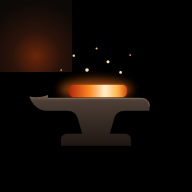
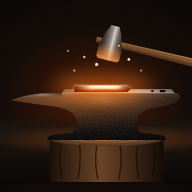
Capa redesenhada: fornalha, bigorna sombreada no cepo, tenaz, martelo de ferreiro e faíscas em rasto
Golpes com clarão, onda de choque e faíscas que ressaltam na bigorna. Ícone novo a condizer.

Claude-Session: https://claude.ai/code/session_01XjpTbbTGugCUFgewp3p1NZ

diff --git a/app.js b/app.js
@@ -150,11 +150,17 @@ const Faiscas = (() => {
   const c = $('#faiscas'), x = c.getContext('2d'), reduz = matchMedia('(prefers-reduced-motion: reduce)').matches;
   let W = 0, H = 0, ps = [], ult = 0, corre = false, acum = 0;
   function tam(){ const d = Math.min(2, devicePixelRatio || 1); W = innerWidth; H = innerHeight; c.width = W * d; c.height = H * d; x.setTransform(d, 0, 0, d, 0, 0); }
-  const nova = (px, py, vx, vy, vida, t, g) => ps.push({x: px, y: py, vx, vy, v: 0, vida, t, g});
-  function explosao(px, py, n = 26){
+  const nova = (px, py, vx, vy, vida, t, g, extra) => ps.push(Object.assign({x: px, y: py, vx, vy, v: 0, vida, t, g}, extra));
+  // riscos: faíscas de forja (traços rápidos que ressaltam na superfície "chao" = {y, x1, x2})
+  function explosao(px, py, n = 26, riscos = false, chao = null){
     for (let i = 0; i < n; i++){
-      const a = -Math.PI / 2 + (Math.random() - .5) * Math.PI * 1.5, s = 110 + Math.random() * 280;
-      nova(px, py, Math.cos(a) * s, Math.sin(a) * s, .45 + Math.random() * .7, 1 + Math.random() * 1.7, 560);
+      if (riscos){
+        const a = -Math.PI / 2 + (Math.random() - .5) * Math.PI * (Math.random() < .7 ? 1.75 : 1.1), s = 160 + Math.random() * 460;
+        nova(px + (Math.random() - .5) * 12, py, Math.cos(a) * s, Math.sin(a) * s, .55 + Math.random() * 1.05, 1 + Math.random() * 1.6, 820, {r: 1, chao});
+      } else {
+        const a = -Math.PI / 2 + (Math.random() - .5) * Math.PI * 1.5, s = 110 + Math.random() * 280;
+        nova(px, py, Math.cos(a) * s, Math.sin(a) * s, .45 + Math.random() * .7, 1 + Math.random() * 1.7, 560);
+      }
     }
     iniciar();
   }
@@ -167,6 +173,14 @@ const Faiscas = (() => {
       const p = ps[i]; p.v += dt; const f = p.v / p.vida;
       if (f >= 1 || p.y < -20){ ps.splice(i, 1); continue; }
       p.vy += p.g * dt; p.vx += Math.sin(p.v * 3 + i) * 8 * dt; p.x += p.vx * dt; p.y += p.vy * dt;
+      if (p.r){
+        p.vx *= 1 - 1.2 * dt;
+        const k = p.chao; if (k && p.vy > 0 && p.y > k.y && p.x > k.x1 && p.x < k.x2 && p.y - p.vy * dt <= k.y + 2){ p.y = k.y; p.vy *= -.32; p.vx *= .75; }
+        x.strokeStyle = `hsla(${50 - 38 * f},100%,${92 - 40 * f}%,${1 - f * f})`; x.lineWidth = p.t * (1.25 - f * .6); x.lineCap = 'round';
+        x.beginPath(); x.moveTo(p.x - p.vx * .04, p.y - p.vy * .04); x.lineTo(p.x, p.y); x.stroke();
+        x.fillStyle = `hsla(30,100%,60%,${.18 * (1 - f)})`; x.beginPath(); x.arc(p.x, p.y, p.t * 3.2, 0, 7); x.fill();
+        continue;
+      }
       x.fillStyle = `hsla(${30 * (1 - f)},100%,${60 - 25 * f}%,${.13 * (1 - f)})`;
       x.beginPath(); x.arc(p.x, p.y, p.t * 4.2, 0, 7); x.fill();
       x.fillStyle = `hsla(${48 - 40 * f},100%,${90 - 45 * f}%,${1 - f * f})`;
@@ -819,10 +833,124 @@ function renderIntro(){
 }
 
 /* ---------- Capa: três marteladas para entrar ---------- */
-// O ferro da semana: cada treino molda o lingote até virar lâmina (meta = treinos por semana).
-const LINGOTE = [[138, 180], [142, 170], [212, 170], [216, 170], [220, 170], [222, 172], [222, 176], [222, 184], [222, 188], [220, 190], [216, 190], [212, 190], [142, 190]];
-const LAMINA = [[92, 183], [130, 176], [226, 176], [226, 166], [233, 166], [233, 179], [266, 179], [266, 187], [233, 187], [233, 200], [226, 200], [226, 190], [130, 190]];
-const formaPeca = f => 'M' + LINGOTE.map((p, i) => (p[0] + (LAMINA[i][0] - p[0]) * f).toFixed(1) + ' ' + (p[1] + (LAMINA[i][1] - p[1]) * f).toFixed(1)).join(' L') + ' Z';
+// O ferro da semana: cada treino molda a barra até virar lâmina (meta = treinos por semana).
+// Pontos correspondentes da barra (f = 0) e da lâmina (f = 1); a forma intermédia é interpolada.
+const BARRA = [[160, 184], [164, 184], [166, 184], [168, 184], [170, 184], [246, 184], [252, 189], [246, 194], [170, 194], [168, 194], [166, 194], [164, 194], [160, 194]];
+const LAMINA = [[112, 186], [140, 186], [140, 177], [147, 177], [147, 184], [285, 184], [312, 189], [285, 194], [147, 194], [147, 201], [140, 201], [140, 192], [112, 192]];
+const lerp = (a, b, f) => a + (b - a) * f;
+const formaPeca = f => 'M' + BARRA.map((p, i) => lerp(p[0], LAMINA[i][0], f).toFixed(1) + ' ' + lerp(p[1], LAMINA[i][1], f).toFixed(1)).join(' L') + ' Z';
+const BIGORNA = 'M58 208Q90 199 126 202L140 202L140 196L322 196Q330 196 330 202L330 206Q326 214 300 218Q268 222 262 236Q256 252 268 260L300 264Q308 266 308 272L116 272Q116 266 124 264L156 260Q168 252 162 236Q156 222 128 218Q96 214 58 208Z';
+const PIVO = '380px 155px', IMPACTO = [215, 184];
+function cenaForja(f){
+  const jx = lerp(160, 112, f), cx = lerp(206, 212, f), meia = lerp(40, 92, f);
+  const chamas = [[86, 46, 1], [104, 58, .9], [122, 50, 1.1], [140, 40, .8], [96, 34, .7]].map(([x, h, e], i) =>
+    `<path class="cChama" style="transform-origin:${x}px 196px" d="M${x - 11 * e} 196Q${x - 13 * e} ${196 - h * .55} ${x} ${196 - h}Q${x + 13 * e} ${196 - h * .55} ${x + 11 * e} 196Z" fill="url(#gChama)" opacity="${.75 - i * .06}"/>`).join('');
+  const brasas = [[62, 195, 7], [78, 198, 9], [96, 194, 8], [114, 198, 10], [132, 195, 8], [150, 198, 7], [88, 200, 6], [124, 201, 7]].map(([x, y, r]) =>
+    `<circle class="cCarvao" cx="${x}" cy="${y + 3}" r="${r * .7}" fill="url(#gCarvao)" opacity=".8"/>`).join('');
+  const pedras = [[2, 52, 46, 22], [50, 50, 52, 20], [106, 48, 50, 22], [160, 52, 46, 20], [0, 78, 30, 26], [170, 76, 34, 24], [0, 108, 28, 28], [174, 104, 32, 28],
+    [0, 140, 30, 26], [172, 136, 34, 28], [0, 170, 28, 30], [176, 168, 30, 30]].map(([x, y, w, h]) =>
+    `<rect x="${x}" y="${y}" width="${w}" height="${h}" rx="5" fill="#211813" stroke="#0d0907" stroke-width="2"/>`).join('');
+  return `<svg viewBox="0 36 400 290" id="cCena" aria-label="Bigorna com ferro em brasa">
+  <defs>
+    <radialGradient id="gFogo" cx="50%" cy="100%" r="90%"><stop offset="0" stop-color="#fff1cf"/><stop offset=".18" stop-color="#ffc861"/><stop offset=".4" stop-color="#ff7a1c"/><stop offset=".7" stop-color="#8a1f08"/><stop offset="1" stop-color="#2a0c05"/></radialGradient>
+    <linearGradient id="gChama" x1="0" y1="1" x2="0" y2="0"><stop offset="0" stop-color="#fff1cf"/><stop offset=".25" stop-color="#ffc861"/><stop offset=".6" stop-color="#ff6a1a"/><stop offset="1" stop-color="#b3260e" stop-opacity="0"/></linearGradient>
+    <radialGradient id="gCarvao" cx="45%" cy="40%" r="60%"><stop offset="0" stop-color="#ffe39a"/><stop offset=".35" stop-color="#ff8a24"/><stop offset=".75" stop-color="#9a2a0a"/><stop offset="1" stop-color="#2a0d05"/></radialGradient>
+    <radialGradient id="gLuzForja" cx="50%" cy="50%" r="50%"><stop offset="0" stop-color="#ff8a2a" stop-opacity=".55"/><stop offset="1" stop-color="#ff6a1a" stop-opacity="0"/></radialGradient>
+    <linearGradient id="gChao" x1="0" y1="0" x2="0" y2="1"><stop offset="0" stop-color="#1d1511" stop-opacity="0"/><stop offset=".22" stop-color="#1d1511"/><stop offset="1" stop-color="#0b0806"/></linearGradient>
+    <radialGradient id="gLuzChao" cx="50%" cy="50%" r="50%"><stop offset="0" stop-color="#ff8a2a" stop-opacity=".35"/><stop offset="1" stop-color="#ff6a1a" stop-opacity="0"/></radialGradient>
+    <linearGradient id="gToco" x1="0" x2="1"><stop offset="0" stop-color="#1a0f08"/><stop offset=".25" stop-color="#4a2e1a"/><stop offset=".45" stop-color="#6a4428"/><stop offset=".75" stop-color="#3a2414"/><stop offset="1" stop-color="#140b06"/></linearGradient>
+    <radialGradient id="gTocoTopo" cx="50%" cy="50%" r="50%"><stop offset="0" stop-color="#a87a50"/><stop offset=".6" stop-color="#7a5234"/><stop offset="1" stop-color="#4a2e1a"/></radialGradient>
+    <linearGradient id="gBigorna" x1="0" y1="0" x2="0" y2="1"><stop offset="0" stop-color="#57504b"/><stop offset=".12" stop-color="#36302d"/><stop offset=".55" stop-color="#1c1816"/><stop offset="1" stop-color="#0c0a09"/></linearGradient>
+    <linearGradient id="gBigornaLado" x1="0" x2="1"><stop offset="0" stop-color="#000" stop-opacity=".55"/><stop offset=".3" stop-color="#000" stop-opacity="0"/><stop offset=".7" stop-color="#000" stop-opacity="0"/><stop offset="1" stop-color="#000" stop-opacity=".6"/></linearGradient>
+    <linearGradient id="gTopo" x1="0" x2="1"><stop offset="0" stop-color="#6d655f"/><stop offset=".45" stop-color="#b0a59d"/><stop offset=".6" stop-color="#d8cdc4"/><stop offset="1" stop-color="#6d655f"/></linearGradient>
+    <radialGradient id="gReflexo" cx="50%" cy="50%" r="50%"><stop offset="0" stop-color="#ffd27a" stop-opacity=".95"/><stop offset=".4" stop-color="#ff8a2a" stop-opacity=".5"/><stop offset="1" stop-color="#ff6a1a" stop-opacity="0"/></radialGradient>
+    <radialGradient id="gAquecido" cx="30%" cy="0%" r="80%"><stop offset="0" stop-color="#ff8a2a" stop-opacity=".45"/><stop offset="1" stop-color="#ff6a1a" stop-opacity="0"/></radialGradient>
+    <linearGradient id="gMetal" x1="0" y1="0" x2="0" y2="1"><stop offset="0" stop-color="#fff8e4"/><stop offset=".25" stop-color="#ffe08f"/><stop offset=".55" stop-color="#ffa13c"/><stop offset=".8" stop-color="#e2541b"/><stop offset="1" stop-color="#8a2208"/></linearGradient>
+    <linearGradient id="gMetalPontas" x1="0" x2="1"><stop offset="0" stop-color="#6a1405" stop-opacity=".9"/><stop offset=".28" stop-color="#6a1405" stop-opacity="0"/><stop offset=".72" stop-color="#6a1405" stop-opacity="0"/><stop offset="1" stop-color="#6a1405" stop-opacity=".9"/></linearGradient>
+    <linearGradient id="gCabeca" x1="0" x2="1"><stop offset="0" stop-color="#1a1614"/><stop offset=".22" stop-color="#4a423d"/><stop offset=".46" stop-color="#9b908a"/><stop offset=".54" stop-color="#d6ccc4"/><stop offset=".72" stop-color="#6d625b"/><stop offset="1" stop-color="#211c19"/></linearGradient>
+    <linearGradient id="gCabecaBaixo" x1="0" y1="0" x2="0" y2="1"><stop offset=".55" stop-color="#ff8a2a" stop-opacity="0"/><stop offset="1" stop-color="#ff8a2a" stop-opacity=".8"/></linearGradient>
+    <linearGradient id="gCabo" x1="0" y1="0" x2="0" y2="1"><stop offset="0" stop-color="#c08a55"/><stop offset=".35" stop-color="#8f5e36"/><stop offset=".8" stop-color="#5a3720"/><stop offset="1" stop-color="#341e10"/></linearGradient>
+    <linearGradient id="gTenaz" x1="0" y1="0" x2="0" y2="1"><stop offset="0" stop-color="#6a605a"/><stop offset=".5" stop-color="#2c2623"/><stop offset="1" stop-color="#110e0c"/></linearGradient>
+    <radialGradient id="gClarao" cx="50%" cy="50%" r="50%"><stop offset="0" stop-color="#ffffff"/><stop offset=".2" stop-color="#fff1cf"/><stop offset=".5" stop-color="#ffb347" stop-opacity=".7"/><stop offset="1" stop-color="#ff6a1a" stop-opacity="0"/></radialGradient>
+    <linearGradient id="gRasto" gradientUnits="userSpaceOnUse" x1="240" y1="68" x2="215" y2="160"><stop offset="0" stop-color="#ffd9b0" stop-opacity="0"/><stop offset="1" stop-color="#ffd9b0" stop-opacity=".5"/></linearGradient>
+    <filter id="fB1" x="-10%" y="-10%" width="120%" height="120%"><feGaussianBlur stdDeviation="1.4"/></filter>
+    <filter id="fB3" x="-50%" y="-50%" width="200%" height="200%"><feGaussianBlur stdDeviation="3"/></filter>
+    <filter id="fB6" x="-60%" y="-60%" width="220%" height="220%"><feGaussianBlur stdDeviation="6"/></filter>
+    <filter id="fB14" x="-80%" y="-200%" width="260%" height="500%"><feGaussianBlur stdDeviation="14"/></filter>
+    <filter id="fGrao" x="0" y="0" width="100%" height="100%"><feTurbulence type="fractalNoise" baseFrequency="1.7" numOctaves="2" seed="7" result="r"/>
+      <feColorMatrix in="r" type="matrix" values="0 0 0 0 .62  0 0 0 0 .56  0 0 0 0 .52  0 0 0 1.4 -.62" result="n"/><feComposite in="n" in2="SourceGraphic" operator="in"/></filter>
+    <radialGradient id="gMascara" gradientUnits="userSpaceOnUse" cx="98" cy="150" r="175"><stop offset=".45" stop-color="#fff"/><stop offset="1" stop-color="#000"/></radialGradient>
+    <mask id="mParede" maskUnits="userSpaceOnUse" x="-80" y="0" width="400" height="260"><rect x="-80" y="0" width="400" height="260" fill="url(#gMascara)"/></mask>
+    <clipPath id="cpBigorna"><path d="${BIGORNA}"/></clipPath>
+    <clipPath id="cpBoca"><path d="M40 202L40 128Q40 84 98 84Q156 84 156 128L156 202Z"/></clipPath>
+  </defs>
+
+  <g filter="url(#fB1)" opacity=".95" mask="url(#mParede)">
+    <path d="M-40 202L-40 44L210 44L210 202Z" fill="#17110d"/>
+    ${pedras}
+    <ellipse cx="98" cy="150" rx="110" ry="90" fill="url(#gLuzForja)"/>
+    <g clip-path="url(#cpBoca)"><rect x="30" y="80" width="140" height="130" fill="url(#gFogo)"/>${chamas}${brasas}</g>
+    <path d="M40 202L40 128Q40 84 98 84Q156 84 156 128L156 202" fill="none" stroke="#ff9a3c" stroke-width="3" opacity=".55" filter="url(#fB3)"/>
+    <path d="M40 202L40 128Q40 84 98 84Q156 84 156 128L156 202" fill="none" stroke="#0d0907" stroke-width="4"/>
+  </g>
+
+  <rect x="-60" y="232" width="520" height="110" fill="url(#gChao)"/>
+  <ellipse cx="212" cy="272" rx="190" ry="26" fill="url(#gLuzChao)"/>
+
+  <path d="M120 270L120 340L304 340L304 270Z" fill="url(#gToco)"/>
+  <path d="M138 280Q134 305 140 335M168 276Q172 300 166 335M196 282Q192 310 198 335M234 280Q238 305 232 335M262 278Q258 304 264 335M288 282Q292 306 286 335" stroke="#140b06" stroke-width="2.2" fill="none" opacity=".7"/>
+  <ellipse cx="212" cy="270" rx="92" ry="12" fill="url(#gTocoTopo)"/>
+  <ellipse cx="212" cy="270" rx="66" ry="8.5" fill="none" stroke="#4a2e1a" stroke-width="1.2" opacity=".7"/>
+  <ellipse cx="212" cy="270" rx="38" ry="5" fill="none" stroke="#4a2e1a" stroke-width="1.2" opacity=".7"/>
+
+  <path d="${BIGORNA}" fill="url(#gBigorna)"/>
+  <g clip-path="url(#cpBigorna)">
+    <rect x="50" y="190" width="290" height="90" fill="url(#gBigornaLado)"/>
+    <rect x="50" y="190" width="290" height="90" fill="url(#gAquecido)"/>
+    <ellipse cx="${cx}" cy="204" rx="${meia + 30}" ry="16" fill="url(#gReflexo)" opacity=".55" filter="url(#fB6)"/>
+  </g>
+  <path d="${BIGORNA}" fill="#000" filter="url(#fGrao)" opacity=".14"/>
+  <path d="M58 208Q90 199 126 202L140 202L140 197L130 197Q94 195 63 206Z" fill="url(#gTopo)" opacity=".55"/>
+  <path d="M140 196L322 196L317 190L145 190Z" fill="url(#gTopo)"/>
+  <path d="M140 196L322 196" stroke="#efe4da" stroke-width="1" opacity=".55"/>
+  <rect x="298" y="191.2" width="9" height="3.6" rx=".6" fill="#0b0908"/><ellipse cx="286" cy="193" rx="2.6" ry="1.6" fill="#0b0908"/>
+  <ellipse cx="${cx}" cy="193" rx="${meia + 26}" ry="5" fill="url(#gReflexo)" filter="url(#fB3)"/>
+
+  <ellipse id="cBrilho" cx="${cx}" cy="186" rx="${meia + 40}" ry="22" fill="#ff7a1c" opacity=".45" filter="url(#fB14)"/>
+  <path id="cPecaBrilho" d="${formaPeca(f)}" fill="#ff9a3c" filter="url(#fB3)" opacity=".9"/>
+  <path id="cPeca" d="${formaPeca(f)}" fill="url(#gMetal)"/>
+  <path d="${formaPeca(f)}" fill="url(#gMetalPontas)"/>
+  <ellipse cx="${cx + 4}" cy="187" rx="${meia * .66}" ry="2.2" fill="#fffdf2" opacity=".95" filter="url(#fB1)"/>
+
+  <g>
+    <path d="M${jx + 9} 183.5Q${jx - 4} 179 ${jx - 20} 179L-40 126" fill="none" stroke="url(#gTenaz)" stroke-width="4.5" stroke-linecap="round"/>
+    <path d="M${jx + 9} 194.5Q${jx - 6} 199 ${jx - 22} 186L-40 140" fill="none" stroke="url(#gTenaz)" stroke-width="4.5" stroke-linecap="round"/>
+    <circle cx="${jx - 21}" cy="182.5" r="3.6" fill="#5a504a" stroke="#0d0b0a" stroke-width="1"/>
+    <ellipse cx="${jx + 6}" cy="189" rx="10" ry="8" fill="#ff8a2a" opacity=".35" filter="url(#fB3)"/>
+  </g>
+
+  <path id="cRasto" d="M246 72A165 165 0 0 0 215 155" fill="none" stroke="url(#gRasto)" stroke-width="34" stroke-linecap="round" opacity="0" filter="url(#fB3)"/>
+  <g id="cMarteloIdle" style="transform-origin:${PIVO}">
+    <g id="cMartelo" style="transform-origin:${PIVO};transform:rotate(32deg)">
+      <path d="M190 151L420 146L420 162L190 160Z" fill="url(#gCabo)"/>
+      <path d="M238 153.5Q320 151.5 418 150M240 157.5Q330 157 418 156.5" stroke="#3a2212" stroke-width=".8" fill="none" opacity=".55"/>
+      <path d="M199 184L231 184L234 180L234 162Q234 158 232 156L228 140L222 128L208 128L202 140L198 156Q196 158 196 162L196 180Z" fill="url(#gCabeca)"/>
+      <path d="M199 184L231 184L234 180L234 162Q234 158 232 156L228 140L222 128L208 128L202 140L198 156Q196 158 196 162L196 180Z" fill="url(#gCabecaBaixo)"/>
+      <path d="M208 128L222 128" stroke="#e9e0d8" stroke-width="1.2" opacity=".7"/>
+      <path d="M196 180L234 180" stroke="#cfc4bb" stroke-width=".8" opacity=".5"/>
+    </g>
+  </g>
+  <ellipse id="cOnda" cx="${IMPACTO[0]}" cy="191" rx="50" ry="7" fill="none" stroke="#ffd27a" stroke-width="2.5" opacity="0" style="transform-origin:${IMPACTO[0]}px 191px"/>
+  <circle id="cClarao" cx="${IMPACTO[0]}" cy="${IMPACTO[1]}" r="34" fill="url(#gClarao)" opacity="0" style="transform-origin:${IMPACTO[0]}px ${IMPACTO[1]}px"/>
+</svg>`;
+}
+function animarCena(){
+  const anima = (el, k, o) => el && el.animate(k, Object.assign({iterations: Infinity, direction: 'alternate', easing: 'ease-in-out'}, o));
+  document.querySelectorAll('#capa .cChama').forEach((c, i) => anima(c, [{transform: 'scaleY(.82) scaleX(1.05)', opacity: .55}, {transform: 'scaleY(1.12) scaleX(.94)', opacity: .9}], {duration: 520 + i * 170, delay: -i * 230}));
+  document.querySelectorAll('#capa .cCarvao').forEach((c, i) => anima(c, [{opacity: .7}, {opacity: 1}], {duration: 700 + (i % 3) * 400, delay: -i * 300}));
+  anima($('#cBrilho'), [{opacity: .35}, {opacity: .55}], {duration: 1800});
+  anima($('#cMarteloIdle'), [{transform: 'rotate(0deg)'}, {transform: 'rotate(-2.5deg)'}], {duration: 1400});
+}
 let golpes = 0, capaAberta = false, escondidoEm = 0, actx = null;
 function mostrarCapa(forcar){
   if (!cfg.pronto || (!forcar && (cfg.capa === false || ativo))) return;
@@ -840,26 +968,7 @@ function renderCapa(){
       <h1 style="font-size:22px;margin-top:14px;color:var(--texto);letter-spacing:.04em">${ola}${cfg.nome ? ', ' + esc(cfg.nome) : ''}</h1>
       ${sug ? `<p class="suave peq" style="margin:6px 0 0">Hoje: <b style="color:var(--ouro)">${TIPOS[sug.tipo].nome}</b>, ${esc(sug.motivo)}</p>` : ''}</div>
     <div class="cena">
-      <svg viewBox="16 52 336 226" id="cCena" aria-label="Bigorna com ferro em brasa">
-        <defs>
-          <linearGradient id="cQuente" gradientUnits="userSpaceOnUse" x1="90" x2="270"><stop offset="0" stop-color="#8a1f08"/><stop offset=".22" stop-color="#e2541b"/><stop offset=".42" stop-color="#ffb347"/><stop offset=".55" stop-color="#fff1cf"/><stop offset=".7" stop-color="#ffb347"/><stop offset="1" stop-color="#c2310c"/></linearGradient>
-          <linearGradient id="cFerro" x1="0" y1="0" x2="0" y2="1"><stop offset="0" stop-color="#7a6658"/><stop offset=".1" stop-color="#4c3e35"/><stop offset="1" stop-color="#191310"/></linearGradient>
-          <linearGradient id="cCabeca" x1="0" y1="0" x2="0" y2="1"><stop offset="0" stop-color="#8d7b6e"/><stop offset=".45" stop-color="#4a3d35"/><stop offset="1" stop-color="#231b17"/></linearGradient>
-          <linearGradient id="cCabo" x1="0" y1="0" x2="0" y2="1"><stop offset="0" stop-color="#8a5a33"/><stop offset="1" stop-color="#4a2c17"/></linearGradient>
-          <filter id="cBlur" x="-60%" y="-200%" width="220%" height="500%"><feGaussianBlur stdDeviation="12"/></filter>
-          <filter id="cBlur2" x="-30%" y="-100%" width="160%" height="300%"><feGaussianBlur stdDeviation="3"/></filter>
-        </defs>
-        <ellipse id="cBrilho" cx="180" cy="184" rx="${110 + 40 * f}" ry="30" fill="#ff7a1c" opacity=".45" filter="url(#cBlur)"/>
-        <path d="M70 190H290Q306 190 306 204V212H252Q238 212 234 226L226 252H256Q266 252 266 262V272H96V262Q96 252 106 252H136L128 226Q124 212 110 212H70Q40 212 28 192Q50 194 70 190Z" fill="url(#cFerro)"/>
-        <path d="M70 190H290Q306 190 306 204" fill="none" stroke="#a08877" stroke-width="1.5" opacity=".6"/>
-        <path id="cPecaBrilho" d="${formaPeca(f)}" fill="url(#cQuente)" filter="url(#cBlur2)" opacity=".85"/>
-        <path id="cPeca" d="${formaPeca(f)}" fill="url(#cQuente)"/>
-        <g id="cMartelo" style="transform-origin:330px 154px;transform:rotate(28deg)">
-          <rect x="204" y="150" width="132" height="8" rx="4" fill="url(#cCabo)"/>
-          <rect x="166" y="136" width="40" height="32" rx="4" fill="url(#cCabeca)"/>
-          <rect x="166" y="136" width="40" height="5" rx="2" fill="#a8968a" opacity=".5"/>
-        </g>
-      </svg>
+      ${cenaForja(f)}
       <h2 style="margin-top:4px">${pronta ? 'Lâmina forjada esta semana' : 'A peça da semana'}</h2>
       <p class="suave peq" style="margin:4px 0 0">${feitos} de ${cfg.dias} treinos${pronta ? '. Bom trabalho, ferreiro.' : '. Cada treino molda o ferro até virar lâmina.'}</p>
     </div>
@@ -869,28 +978,33 @@ function renderCapa(){
       <div class="golpes" id="cGolpes"><i></i><i></i><i></i></div>
       <p class="suave peq" id="cDica" style="margin:0">Dá três marteladas para entrar</p>
     </div>`;
-  $('#cBrilho').animate([{opacity: .35}, {opacity: .55}], {duration: 1800, iterations: Infinity, direction: 'alternate', easing: 'ease-in-out'});
+  animarCena();
 }
 function golpe(){
   if (!capaAberta || golpes >= 3) return;
   const n = ++golpes, m = $('#cMartelo');
   m.getAnimations().forEach(a => a.cancel());
-  m.animate([{transform: 'rotate(28deg)'}, {transform: 'rotate(44deg)', offset: .38}, {transform: 'rotate(-1deg)', offset: .6}, {transform: 'rotate(6deg)', offset: .72}, {transform: 'rotate(28deg)'}],
-    {duration: 480, easing: 'ease-in-out'});
-  clang(n === 3, .27);
-  setTimeout(() => impacto(n), 288);
+  m.animate([{transform: 'rotate(32deg)'}, {transform: 'rotate(48deg)', offset: .36}, {transform: 'rotate(-.5deg)', offset: .58}, {transform: 'rotate(7deg)', offset: .7}, {transform: 'rotate(32deg)'}],
+    {duration: 520, easing: 'ease-in-out'});
+  $('#cRasto').animate([{opacity: 0}, {opacity: 0, offset: .38}, {opacity: .7, offset: .5}, {opacity: 0, offset: .62}, {opacity: 0}], {duration: 520});
+  clang(n === 3, .3);
+  setTimeout(() => impacto(n), 300);
 }
 function impacto(n){
   const svgEl = $('#cCena'); if (!svgEl) return;
-  const pt = svgEl.createSVGPoint(); pt.x = 186; pt.y = 172;
+  const pt = svgEl.createSVGPoint(); pt.x = IMPACTO[0]; pt.y = IMPACTO[1];
   const p = pt.matrixTransform(svgEl.getScreenCTM());
-  Faiscas.explosao(p.x, p.y, n === 3 ? 90 : 34);
+  const ecra = (x, y) => { const q = svgEl.createSVGPoint(); q.x = x; q.y = y; return q.matrixTransform(svgEl.getScreenCTM()); };
+  const a = ecra(145, 190), b = ecra(317, 190);
+  Faiscas.explosao(p.x, p.y, n === 3 ? 140 : 60, true, {y: a.y, x1: a.x, x2: b.x});
   vibrar(n === 3 ? [60, 40, 90] : 35);
-  $('#capa').animate([{transform: 'translate(0,0)'}, {transform: 'translate(-4px,3px)'}, {transform: 'translate(3px,-2px)'}, {transform: 'translate(0,0)'}], {duration: 170});
-  ['#cPeca', '#cPecaBrilho'].forEach(s => $(s).animate([{filter: 'brightness(2.2)'}, {filter: 'brightness(1)'}], {duration: n === 3 ? 900 : 450, easing: 'ease-out'}));
+  $('#capa').animate([{transform: 'translate(0,0)'}, {transform: 'translate(-5px,4px)'}, {transform: 'translate(4px,-3px)'}, {transform: 'translate(-2px,1px)'}, {transform: 'translate(0,0)'}], {duration: 200});
+  $('#cClarao').animate([{opacity: 1, transform: 'scale(.3)'}, {opacity: 0, transform: `scale(${n === 3 ? 2.6 : 1.7})`}], {duration: n === 3 ? 420 : 260, easing: 'ease-out'});
+  $('#cOnda').animate([{opacity: .9, transform: 'scale(.15,.4)'}, {opacity: 0, transform: `scale(${n === 3 ? 2.2 : 1.5},1.1)`}], {duration: 380, easing: 'ease-out'});
+  ['#cPeca', '#cPecaBrilho'].forEach(s => $(s).animate([{filter: 'brightness(1.9)'}, {filter: 'brightness(1)'}], {duration: n === 3 ? 900 : 450, easing: 'ease-out'}));
   document.querySelectorAll('#cGolpes i').forEach((d, i) => d.classList.toggle('on', i < n));
   $('#cDica').textContent = n === 1 ? 'Mais duas…' : n === 2 ? 'Mais uma!' : 'O ferro está pronto.';
-  if (n >= 3) setTimeout(fecharCapa, 700);
+  if (n >= 3) setTimeout(fecharCapa, 750);
 }
 function fecharCapa(){
   capaAberta = false; const c = $('#capa'); c.classList.add('sair');

diff --git a/estilo.css b/estilo.css
@@ -202,7 +202,7 @@ ul.dicas { margin: 0; padding-left: 18px; display: flex; flex-direction: column;
               radial-gradient(120% 55% at 50% 118%, rgba(255,90,20,.28), transparent 60%), var(--fundo);
   transition: opacity .5s ease, transform .5s ease; }
 #capa.sair { opacity: 0; transform: scale(1.06); pointer-events: none; }
-#capa .cena { width: min(460px, 100%); }
+#capa .cena { width: calc(100% + 40px); max-width: 520px; margin: 0 -20px; }
 #capa .cena svg { width: 100%; height: auto; display: block; overflow: visible; }
 #capa .infos { display: grid; grid-template-columns: repeat(3, 1fr); gap: 8px; }
 #capa .infos div { background: rgba(26,19,16,.82); border: 1px solid var(--aresta); border-radius: 12px; padding: 9px 4px; font-size: 11.5px; color: var(--suave); }

diff --git a/sw.js b/sw.js
@@ -1,5 +1,5 @@
 // Forja — service worker: a app funciona sem internet e atualiza-se sozinha quando há ligação.
-const CACHE = 'forja-v2';
+const CACHE = 'forja-v3';
 const IMAGENS = 'forja-img';
 const FICHEIROS = ['./', './index.html', './estilo.css', './app.js', './exercicios.json', './cinzel.woff2', './manifest.webmanifest', './icon-192.png', './icon-512.png'];
 
